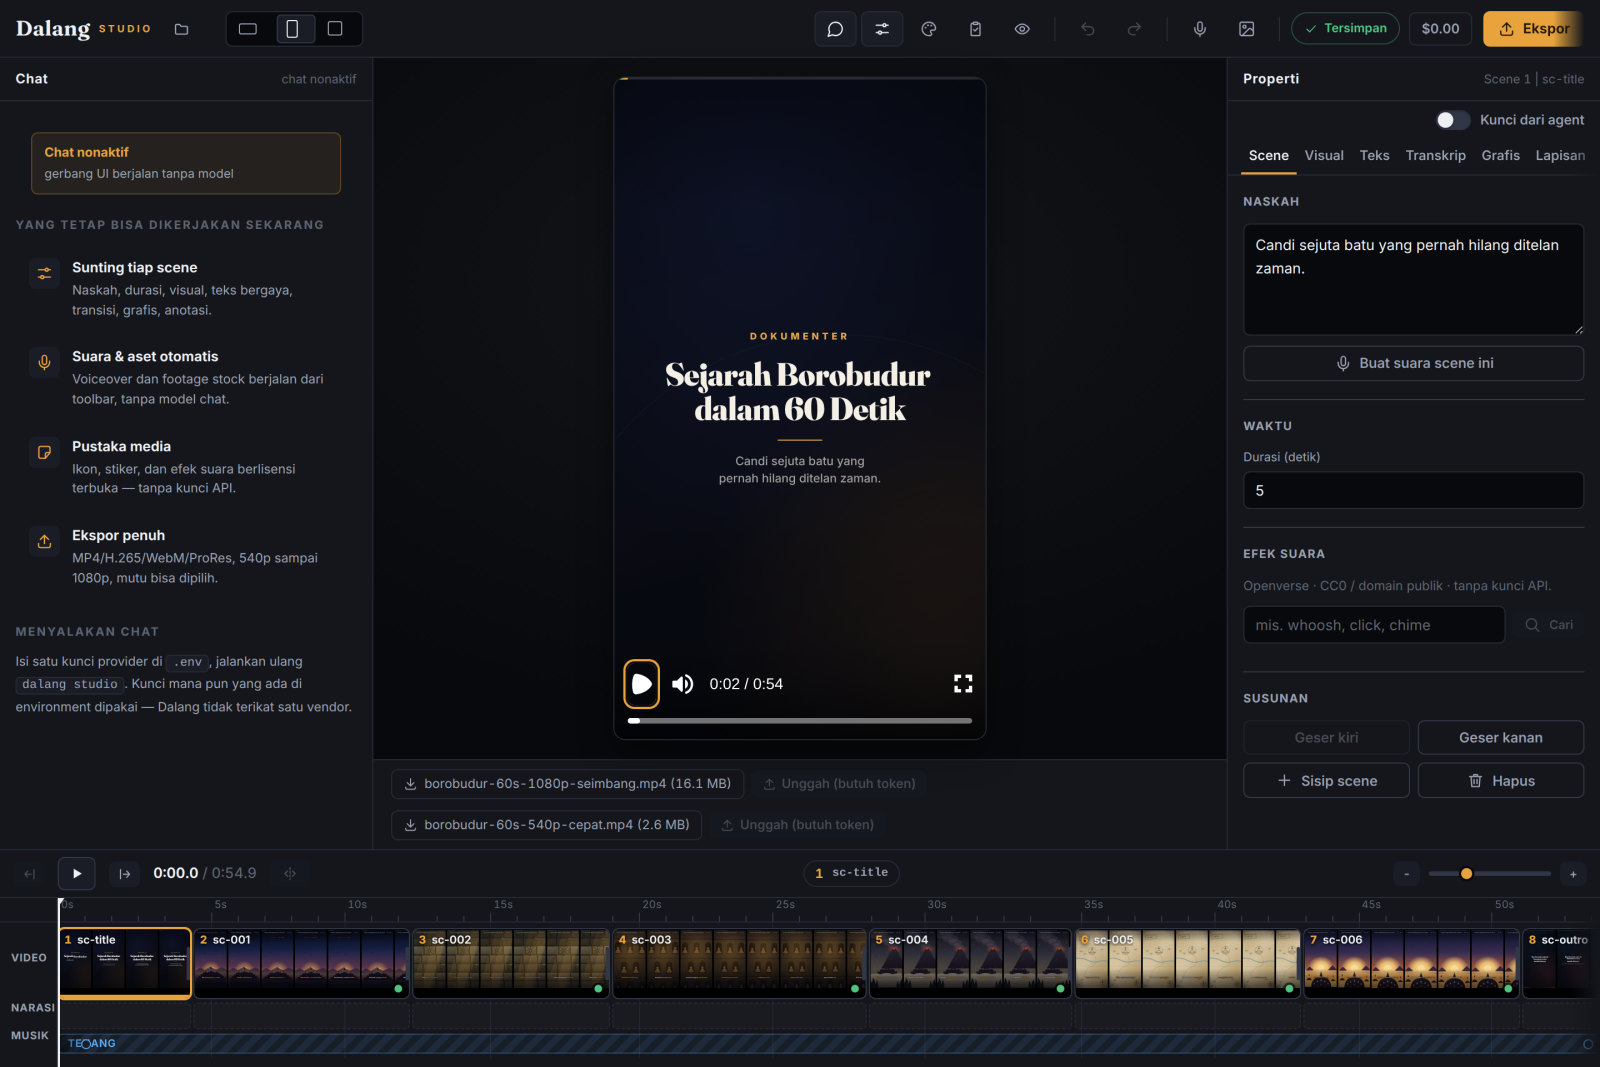
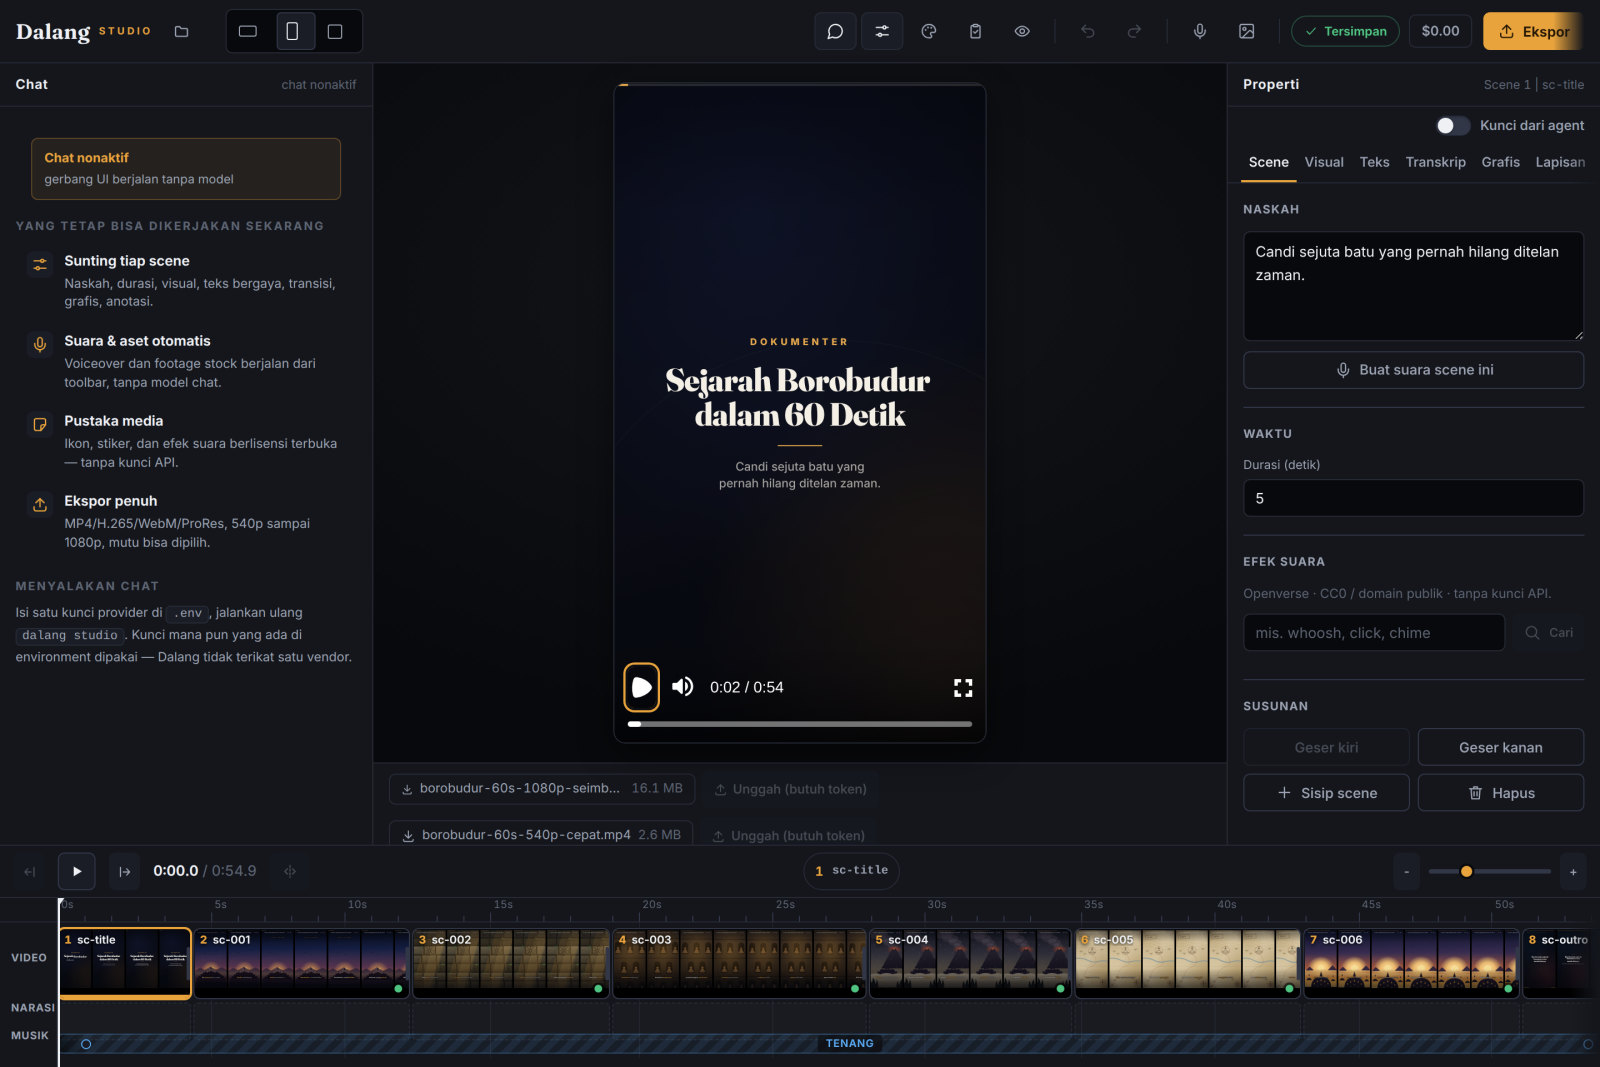
fix(studio): label timeline tak lagi tertimpa, dan kerapatan disamakan
Pass merapikan tampilan, dimulai dengan MELIHATNYA: sebelas permukaan
ditangkap di beberapa lebar layar — lobi, editor, keenam tab Properti,
dan setiap dialog — lalu dinilai satu per satu.

CACAT SUNGGUHAN yang ketemu: label bar musik dan bar trek audio duduk di
bawah pegangan fade. Bukan kadang-kadang — diukur di empat tinggi layar,
tertimpa di keempatnya. Sebabnya struktural: label diletakkan di kiri bar,
dan pegangan fade MASUK selalu berada di dekat tepi kiri karena fade selalu
dimulai dari nol. Kiri adalah satu tempat yang pasti ditimpa. Labelnya kini
ditengahkan, satu-satunya wilayah yang tidak pernah ditempati pegangan mana
pun pada fade yang wajar, dengan alas tipis supaya terbaca di atas motif
garis miring bar.

Sisanya soal kerapatan dan konsistensi:

- Satu tinggi untuk semua kendali sebaris. Sebelumnya input 35 piksel dan
  tombol 32, jadi setiap baris "kolom + tombol" duduk tiga piksel tidak
  sejajar — kecil, tapi ada di hampir setiap panel.
- Riwayat render jadi satu baris rapat berbatas tinggi, bukan dua baris yang
  mendorong preview ke atas. Nama berkas yang panjang dipendekkan, UKURANNYA
  tidak: percobaan pertama memotong seluruh tautan dan yang lebih dulu hilang
  justru ukurannya, bagian yang paling dibaca orang.
- Kartu format di dialog Ekspor dirapatkan; empat kartu setinggi 80 piksel
  membuat dialognya hampir setinggi layar.
- Keadaan kosong panel chat dirapatkan.
- Irama tegak lobi dirapatkan, dan di layar sempit kartu "proyek baru" jadi
[…]

diff --git a/packages/studio/src/app/styles.css b/packages/studio/src/app/styles.css
@@ -36,6 +36,10 @@
   --info: #5aa9f2;
   --serif: "Fraunces", Georgia, serif;
   --sans: "Inter", system-ui, -apple-system, sans-serif;
+  /* Satu tinggi untuk semua kendali sebaris. Sebelum ini input 35px dan
+     tombol 32px, jadi setiap baris "kolom + tombol" duduk tiga piksel tidak
+     sejajar — kecil, tapi ada di hampir setiap panel. */
+  --ctl: 34px;
   --r-sm: 6px;
   --r: 8px;
   --r-lg: 10px;
@@ -124,6 +128,7 @@ button {
   border-radius: var(--r-sm);
   padding: 7px 12px;
   cursor: pointer;
+  min-height: var(--ctl);
   transition:
     background 120ms ease,
     color 120ms ease,
@@ -195,9 +200,13 @@ select {
   background: var(--bg-deep);
   border: 1px solid var(--line);
   border-radius: var(--r-sm);
-  padding: 8px 10px;
+  padding: 7px 10px;
   width: 100%;
   transition: border-color 120ms ease;
+}
+input:not([type="range"]):not([type="checkbox"]),
+select {
+  min-height: var(--ctl);
 }
 input:hover,
 textarea:hover,
@@ -277,8 +286,14 @@ textarea::placeholder {
 }
 input[type="color"] {
   padding: 3px;
-  height: 34px;
+  height: var(--ctl);
   cursor: pointer;
+}
+input[type="color"]::-webkit-color-swatch {
+  /* Warna dasar proyek nyaris hitam, dan tanpa garis tepi contoh warnanya
+     lenyap ke dalam latar dialog — terbaca sebagai kolom kosong, bukan
+     sebagai warna yang sedang dipilih. */
+  border: 1px solid var(--line-strong);
 }
 input[type="color"]::-webkit-color-swatch-wrapper {
   padding: 2px;
@@ -750,11 +765,27 @@ input[type="color"]::-webkit-color-swatch {
 .render-strip {
   display: flex;
   align-items: center;
-  gap: 10px;
+  gap: 8px;
   flex-wrap: wrap;
-  padding: 8px 16px;
+  padding: 6px 14px;
   border-top: 1px solid var(--line);
   background: var(--panel);
+  /* Riwayat render adalah catatan kaki, bukan toolbar kedua: dibatasi tinggi
+     dua baris supaya proyek dengan belasan ekspor tidak mendorong preview ke
+     atas, dan digulung sendiri kalau lebih. */
+  max-height: 74px;
+  overflow-y: auto;
+}
+.render-name {
+  overflow: hidden;
+  text-overflow: ellipsis;
+  white-space: nowrap;
+  min-width: 0;
+}
+.render-size {
+  flex: none;
+  color: var(--text-faint);
+  font-variant-numeric: tabular-nums;
 }
 .render-note {
   font-size: 11.5px;
@@ -778,6 +809,10 @@ input[type="color"]::-webkit-color-swatch {
   border-radius: var(--r-sm);
   padding: 4px 10px;
   font-variant-numeric: tabular-nums;
+  /* Dibatasi supaya satu nama berkas panjang tidak memakan seluruh baris
+     riwayat; yang dipendekkan hanya namanya, ukurannya tetap terbaca. */
+  max-width: 38ch;
+  min-width: 0;
 }
 .render-link:hover {
   color: var(--text);
@@ -1253,6 +1288,12 @@ input[type="color"]::-webkit-color-swatch {
   bottom: 2px;
   display: flex;
   align-items: center;
+  /* Label DITENGAHKAN, bukan di kiri. Pegangan fade masuk selalu berada di
+     dekat tepi kiri bar (fade selalu mulai dari nol), jadi kiri adalah satu
+     tempat yang PASTI ditimpa — dan memang tertimpa di setiap tinggi layar
+     yang diukur. Tengah bar adalah satu-satunya wilayah yang tidak pernah
+     ditempati pegangan mana pun pada fade yang wajar. */
+  justify-content: center;
   border-radius: 4px;
   border: 1px solid rgba(90, 169, 242, 0.28);
   background: repeating-linear-gradient(
@@ -1263,12 +1304,20 @@ input[type="color"]::-webkit-color-swatch {
   pointer-events: none;
 }
 .music-label {
-  padding: 0 8px;
+  padding: 1px 7px;
   font-size: 9.5px;
   font-weight: 650;
   letter-spacing: 0.05em;
   text-transform: uppercase;
   color: var(--info);
+  /* Alas tipis: bar bermotif garis miring, dan teks tanpa alas di atasnya
+     terbaca kotor. */
+  background: rgba(13, 14, 18, 0.72);
+  border-radius: 3px;
+  max-width: 60%;
+  overflow: hidden;
+  text-overflow: ellipsis;
+  white-space: nowrap;
 }
 /* Trek audio tambahan (ADR-0026): berbagi baris dengan musik, tapi warnanya
    sendiri supaya bisa dibedakan dari bed. */
@@ -1287,8 +1336,17 @@ input[type="color"]::-webkit-color-swatch {
   border-style: dashed;
   background: transparent;
 }
+.track-bar .layer-bar-hit {
+  /* Sama seperti bar musik: labelnya ditengahkan supaya tidak duduk di bawah
+     pegangan fade masuk, yang selalu berada di dekat tepi kiri. */
+  justify-content: center;
+}
 .track-bar .layer-bar-label {
   color: rgba(126, 200, 160, 0.95);
+  padding: 1px 7px;
+  background: rgba(13, 14, 18, 0.72);
+  border-radius: 3px;
+  max-width: 70%;
 }
 
 /*
@@ -2260,12 +2318,12 @@ input[type="color"]::-webkit-color-swatch {
 .radio-card {
   display: flex;
   align-items: flex-start;
-  gap: 11px;
+  gap: 10px;
   width: 100%;
   min-width: 0;
   text-align: left;
   white-space: normal;
-  padding: 12px 14px;
+  padding: 9px 12px;
   border: 1px solid var(--line-strong);
   border-radius: var(--r);
   background: var(--bg-deep);
@@ -2318,19 +2376,19 @@ input[type="color"]::-webkit-color-swatch {
 .radio-card-desc {
   font-size: 11.5px;
   color: var(--text-dim);
-  line-height: 1.5;
+  line-height: 1.45;
 }
 .radio-stack {
   display: grid;
-  gap: 8px;
-  margin: 12px 0 2px;
+  gap: 6px;
+  margin: 10px 0 2px;
 }
 
 /* Dialog Ekspor (ADR-0014) */
 .export-fields {
   display: grid;
-  gap: 12px;
-  margin-top: 14px;
+  gap: 10px;
+  margin-top: 12px;
 }
 .export-hint {
   margin: 10px 0 0;
@@ -3221,7 +3279,7 @@ input[type="color"]::-webkit-color-swatch {
   justify-content: space-between;
   gap: 24px;
   flex-wrap: wrap;
-  padding: 26px clamp(20px, 5vw, 56px) 20px;
+  padding: 20px clamp(20px, 5vw, 56px) 14px;
 }
 .lobby-hero h1 {
   margin: 0;
@@ -3253,9 +3311,9 @@ button.lg {
 .lobby-bar {
   display: flex;
   align-items: center;
-  gap: 12px;
+  gap: 10px;
   flex-wrap: wrap;
-  padding: 0 clamp(20px, 5vw, 56px) 18px;
+  padding: 0 clamp(20px, 5vw, 56px) 14px;
 }
 .lobby-search {
   display: flex;
@@ -3614,6 +3672,17 @@ button.ghost.danger.confirm {
     background 180ms ease,
     transform 180ms cubic-bezier(0.2, 0.8, 0.3, 1);
 }
+@media (max-width: 620px) {
+  .new-card {
+    flex-direction: row;
+    min-height: 0;
+    padding: 12px 14px;
+    gap: 10px;
+  }
+  .new-card small {
+    display: none;
+  }
+}
 .new-card:hover:not(:disabled) {
   border-color: var(--accent);
   color: var(--accent);
@@ -3721,7 +3790,7 @@ button.ghost.danger.confirm {
 .radio-grid {
   display: grid;
   grid-template-columns: repeat(auto-fit, minmax(200px, 1fr));
-  gap: 8px;
+  gap: 6px;
 }
 .ratio-choices {
   display: grid;
@@ -3744,6 +3813,14 @@ button.ghost.danger.confirm {
   border-color: var(--accent);
   background: rgba(232, 163, 61, 0.09);
   color: var(--text);
+  /* Cincin fokus lebih mencolok daripada keadaan terpilih pada versi
+     sebelumnya, jadi kartu yang SEDANG disentuh keyboard terlihat lebih
+     terpilih daripada yang benar-benar terpilih. Garis dalam ini membalik
+     urutannya. */
+  box-shadow: inset 0 0 0 1px var(--accent);
+}
+.ratio-choice.active .ratio-glyph {
+  color: var(--accent);
 }
 /* Tinggi yang dikunci, lebar yang mengikuti rasio: kalau lebarnya yang
    dikunci, kotak 9:16 jadi tiga kali lebih tinggi daripada 16:9 dan label di
@@ -4145,7 +4222,7 @@ button.ghost.danger.confirm {
 .offline-guide {
   display: flex;
   flex-direction: column;
-  gap: 14px;
+  gap: 10px;
   padding: 2px 0 8px;
 }
 /* Nama env var panjang tanpa spasi; ia harus boleh patah di mana saja supaya
@@ -4173,9 +4250,9 @@ button.ghost.danger.confirm {
 }
 .offline-list li {
   display: flex;
-  gap: 11px;
+  gap: 10px;
   align-items: flex-start;
-  padding: 10px 11px;
+  padding: 7px 9px;
   border-radius: var(--r);
   border: 1px solid transparent;
   transition:
@@ -4190,8 +4267,8 @@ button.ghost.danger.confirm {
   display: inline-flex;
   align-items: center;
   justify-content: center;
-  width: 28px;
-  height: 28px;
+  width: 24px;
+  height: 24px;
   flex: none;
   border-radius: var(--r-sm);
   background: var(--panel-2);
@@ -4206,7 +4283,7 @@ button.ghost.danger.confirm {
 .offline-list p {
   margin: 0;
   font-size: 11.5px;
-  line-height: 1.55;
+  line-height: 1.45;
   color: var(--text-dim);
 }
 .offline-hint {

diff --git a/packages/studio/src/app/panels/PreviewPanel.tsx b/packages/studio/src/app/panels/PreviewPanel.tsx
@@ -209,7 +209,13 @@ export const PreviewPanel: React.FC = () => {
                   rel="noreferrer"
                 >
                   <IconDownload />
-                  {name} ({(render.sizeBytes / 1024 / 1024).toFixed(1)} MB)
+                  {/* Nama berkas yang dipendekkan, UKURAN tidak: memotong
+                      seluruh tautan membuat ukurannya — bagian yang justru
+                      dibaca orang — yang lebih dulu hilang. */}
+                  <span className="render-name">{name}</span>
+                  <span className="render-size">
+                    {(render.sizeBytes / 1024 / 1024).toFixed(1)} MB
+                  </span>
                 </a>
                 {render.published ? (
                   <a
